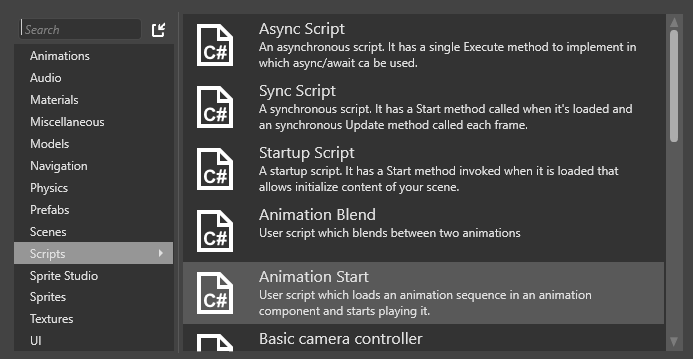
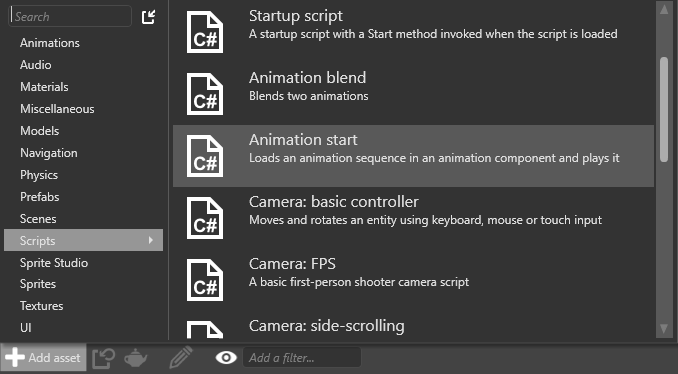
[Animation] update screenshots

diff --git a/manual/animation/animation-scripts.md b/manual/animation/animation-scripts.md
@@ -23,9 +23,9 @@ To use the **AnimationStart** script:
 
 1. In the **asset view** (bottom pane by default), click **Add asset**.
 
-2. Choose **Add asset > Scripts > Animation Start**.
+2. Choose **Add asset > Scripts > Animation start**.
 
-    ![Add animation script](media/add-animation-script.png)
+    ![Add animation script](media/animations-additive-animations-animation-start.png)
 
 3. In the **Script wizard**, specify a name for the script, and click **OK**.
 
